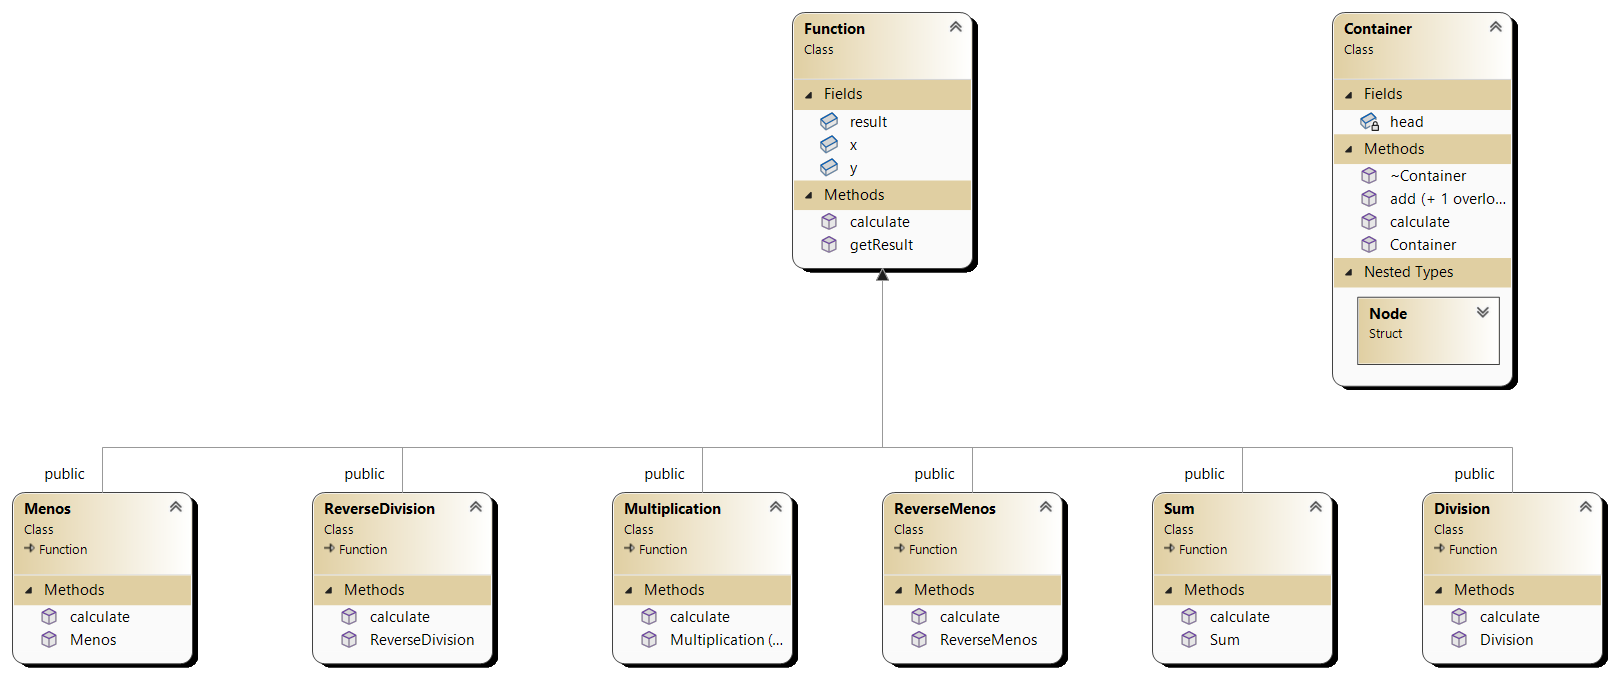
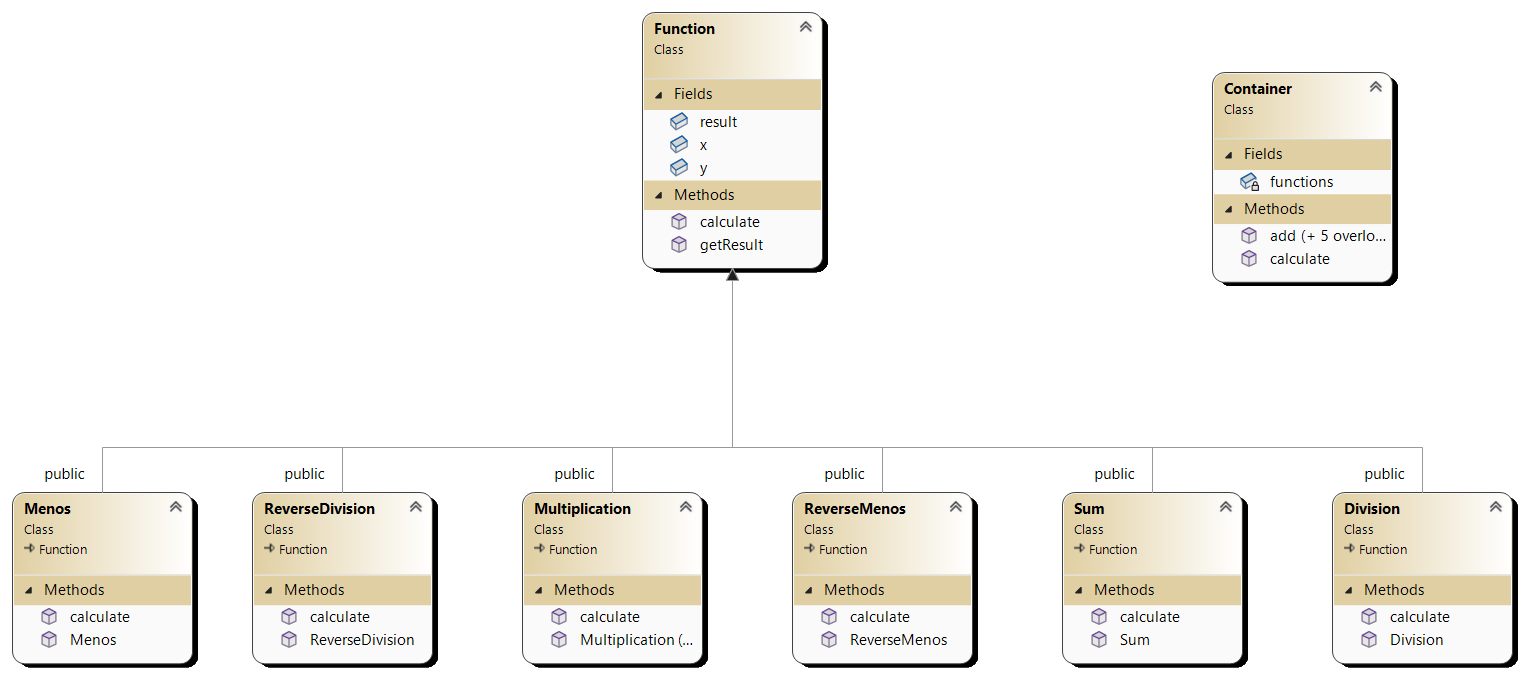
Зміни після правок викладача.

diff --git a/Sem2_lab3_oop/Sem2_lab3_oop.cpp b/Sem2_lab3_oop/Sem2_lab3_oop.cpp
@@ -5,150 +5,110 @@
 using namespace std;
 
 class Function {
-public:
+protected:
     double x;
     double y;
-    float result;
 
-    virtual double calculate() {
-        return result;
-    }
-    virtual void getResult() {
-        cout << "Result: " << result << endl;
-    }
+public:
+    Function() {
+        this->x = 0;
+        this->y = 0;
+    };
+    virtual double calculate() = 0;
 };
 
 class Multiplication : public Function {
 public:
-    Multiplication() {
+    Multiplication() : Function() {
         x = 7;
         y = 3.5;
     }
-    Multiplication(const Multiplication& sum) {
-        x = sum.x;
-        y = sum.y;
-
-    }
-    Multiplication(double x_input, double y_input) {
-        x = x_input;
-        y = y_input;
-    }
-
-    virtual double calculate() {
-        result = x * y;
-        return result;
+    double calculate() override {
+        return x * y;
     }
 };
 
 class Sum : public Function {
 public:
-    Sum() {
+    Sum() : Function() {
         x = 7;
         y = 2;
     }
-    virtual double calculate() {
-        result = x + y;
-        return result;
+    double calculate() override {
+        return x + y;
     }
 };
 
 class Menos : public Function {
 public:
-    Menos() {
+    Menos() : Function() {
         x = 19;
         y = 4;
     }
-    virtual double calculate() {
-        result = x - y;
-        return result;
+    double calculate() override {
+        return x - y;
     }
 };
 class ReverseMenos : public Function {
 public:
-    ReverseMenos() {
+    ReverseMenos() : Function() {
         x = 3;
         y = 2;
     }
-    virtual double calculate() {
-        result = y-x;
-        return result;
+    double calculate() override {
+        return y - x;
     }
 };
 
 class Division : public Function {
 public:
-    Division() {
+    Division() : Function() {
         x = 4;
         y = 5;
     }
-    virtual double calculate() {
-        result = x/y;
-        return result;
+    double calculate() override {
+        return x / y;
     }
 };
+
 class ReverseDivision : public Function {
 public:
-    ReverseDivision() {
+    ReverseDivision() : Function() {
         x = 13.75;
         y = 79;
     }
-    virtual double calculate() {
-        result = y/ x;
-        return result;
+    double calculate() override {
+        return y / x;
     }
 };
 class Container {
     list<Function*> functions;
 
 public:
-    void add(Multiplication* Multiplication_res) {
-        functions.push_back(Multiplication_res);
+    void add(Function* res) {
+        functions.push_back(res);
     }
 
-    void add(Sum* suma) {
-        functions.push_back(suma);
-    }
-
-    void add(Menos* Menos_res) {
-        functions.push_back(Menos_res);
-    }
-
-    void add(ReverseMenos* ReverseMenos_res) {
-        functions.push_back(ReverseMenos_res);
-    }
-
-    void add(Division* Divisions_res) {
-        functions.push_back(Divisions_res);
-    }
-
-    void add(ReverseDivision* ReverseDivision_res) {
-        functions.push_back(ReverseDivision_res);
-    }
-
-    void calculate() {
-        float res = 1;
-        for (auto it = functions.begin(); it != functions.end(); ++it) {
-            res *= (*it)->calculate();
-            res = abs(res);
-            (*it)->getResult();
+    double calculate() {
+        double res = 1;
+        for (Function* function : functions) {
+            res *= abs(function->calculate());
         }
-        cout << "The result of multiplying all functions: " << res;
+        return res;
     }
 };
 
 int main()
 {
     Container cont;
-    cont.add(new Multiplication(7, 4));
     cont.add(new Sum());
     cont.add(new Multiplication());
-
     cont.add(new Menos());
     cont.add(new ReverseMenos());
-
     cont.add(new Division());
     cont.add(new ReverseDivision());
-    cont.calculate();
+    cout << cont.calculate();
+
     return 0;
 }
 
